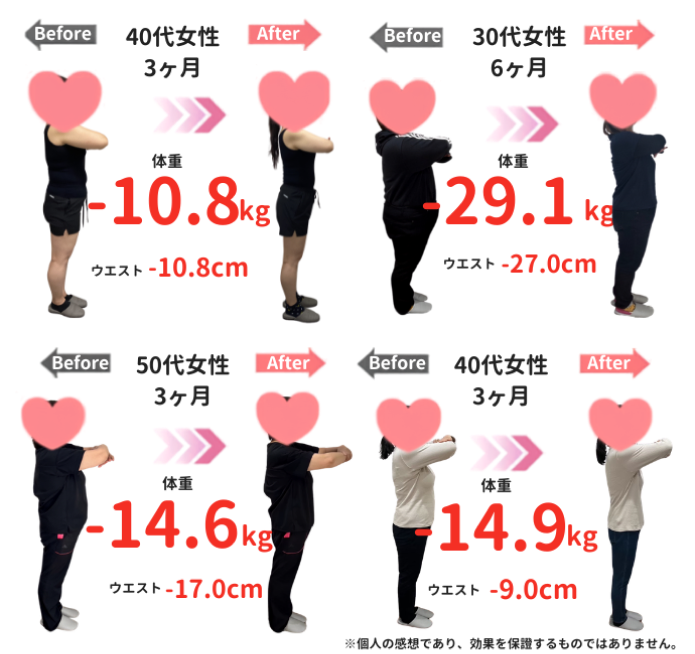
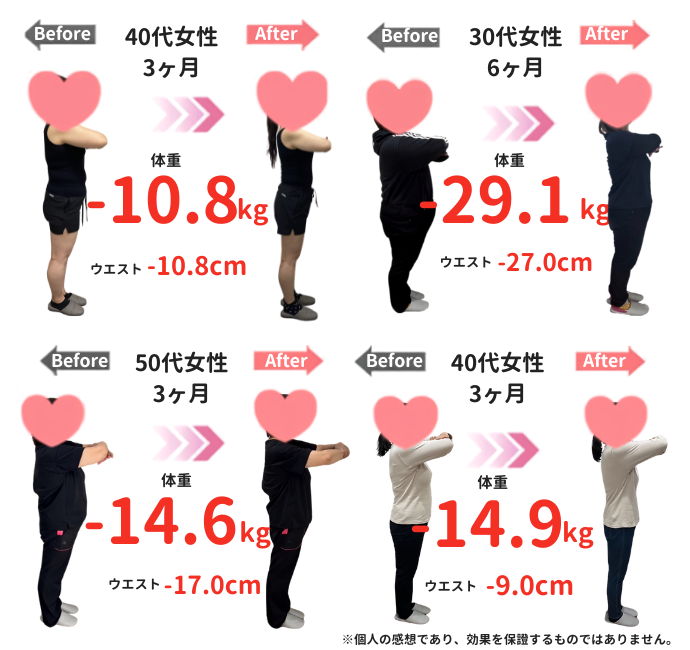
Replace FV, FV sub, before/after and voice intro images with originals
Claude-Session: https://claude.ai/code/session_01D9N7WG3XaWjPArFwASqGj8

diff --git a/index.html b/index.html
@@ -8,7 +8,7 @@
   <meta property="og:title" content="はりきゅう・整体院 山小屋｜野並駅徒歩1分【ダイエット特化】整体">
   <meta property="og:description" content="無理な運動&食事制限なし。たった3ヶ月で健康的な美しさを手にいれる、人生最後のダイエットを試してみませんか？">
   <meta property="og:type" content="website">
-  <meta property="og:image" content="image/fv.png">
+  <meta property="og:image" content="image/fv.webp">
   <link rel="preconnect" href="https://fonts.googleapis.com">
   <link rel="preconnect" href="https://fonts.gstatic.com" crossorigin>
   <link href="https://fonts.googleapis.com/css2?family=Noto+Sans+JP:wght@400&family=Zen+Kaku+Gothic+Antique:wght@700&display=swap" rel="stylesheet">
@@ -27,9 +27,9 @@
 
     <main>
       <h1 class="visually-hidden">無理な運動&amp;食事制限なし 人生最後のダイエットを試してみませんか？</h1>
-      <img src="image/fv.png" width="690" height="1079" alt="無理な運動&食事制限なし -8kg以上痩せたいあなたへ たった3ヶ月で健康的な美しさを手にいれる 人生最後のダイエットを試してみませんか？">
-      <img src="image/fv_sub.png" width="690" height="272" alt="カウンセリングの様子と院内の受付">
-      <img src="image/before_after.png" width="695" height="654" alt="ビフォーアフター 体重-10.8kg・-29.1kg・-14.6kg・-14.9kg">
+      <img src="image/fv.webp" width="690" height="1078" alt="無理な運動&食事制限なし -8kg以上痩せたいあなたへ たった3ヶ月で健康的な美しさを手にいれる 人生最後のダイエットを試してみませんか？">
+      <img src="image/fv_sub.png" width="690" height="271" alt="カウンセリングの様子と院内の受付">
+      <img src="image/before_after.png" width="690" height="650" alt="ビフォーアフター 体重-10.8kg・-29.1kg・-14.6kg・-14.9kg">
       <img src="image/price.png" width="690" height="1293" alt="公式LINEからご予約で 初回キャンペーン 初回カウンセリング＋美容・痩身整体施術体験 先着5名様限定 通常11,800円のところ特別価格 税込1,980円" loading="lazy">
 
       <div class="cta">
